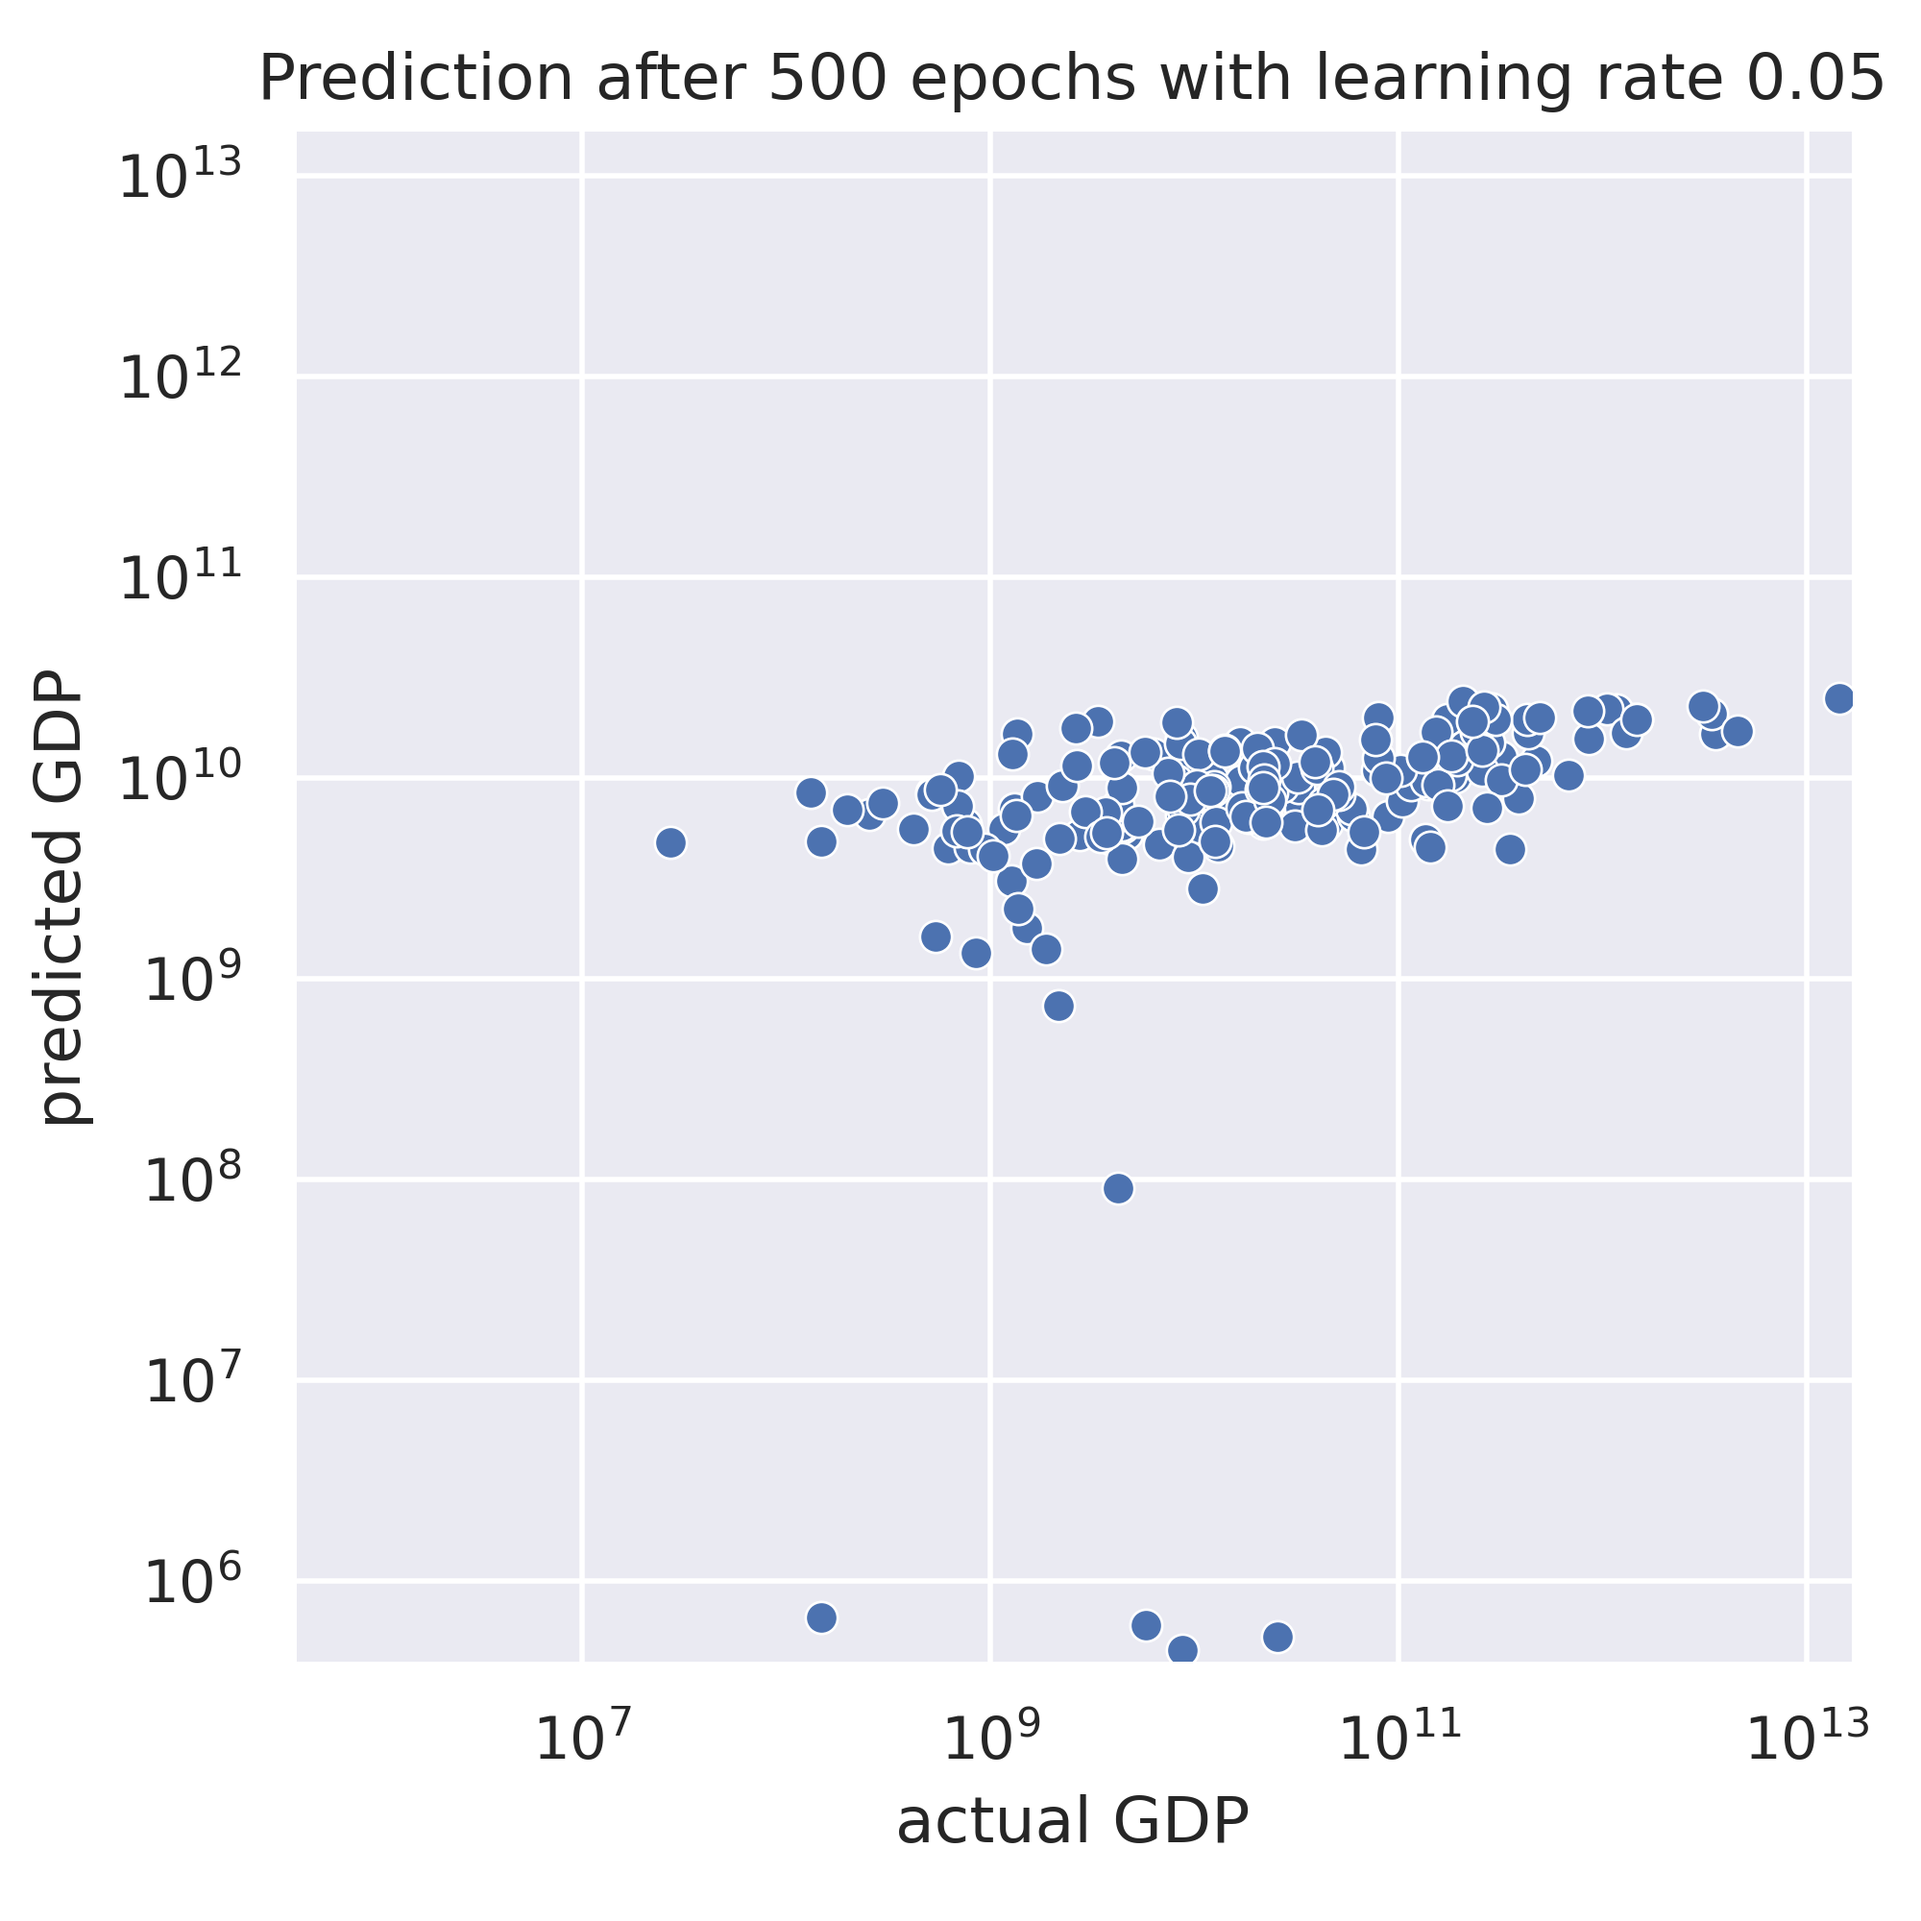
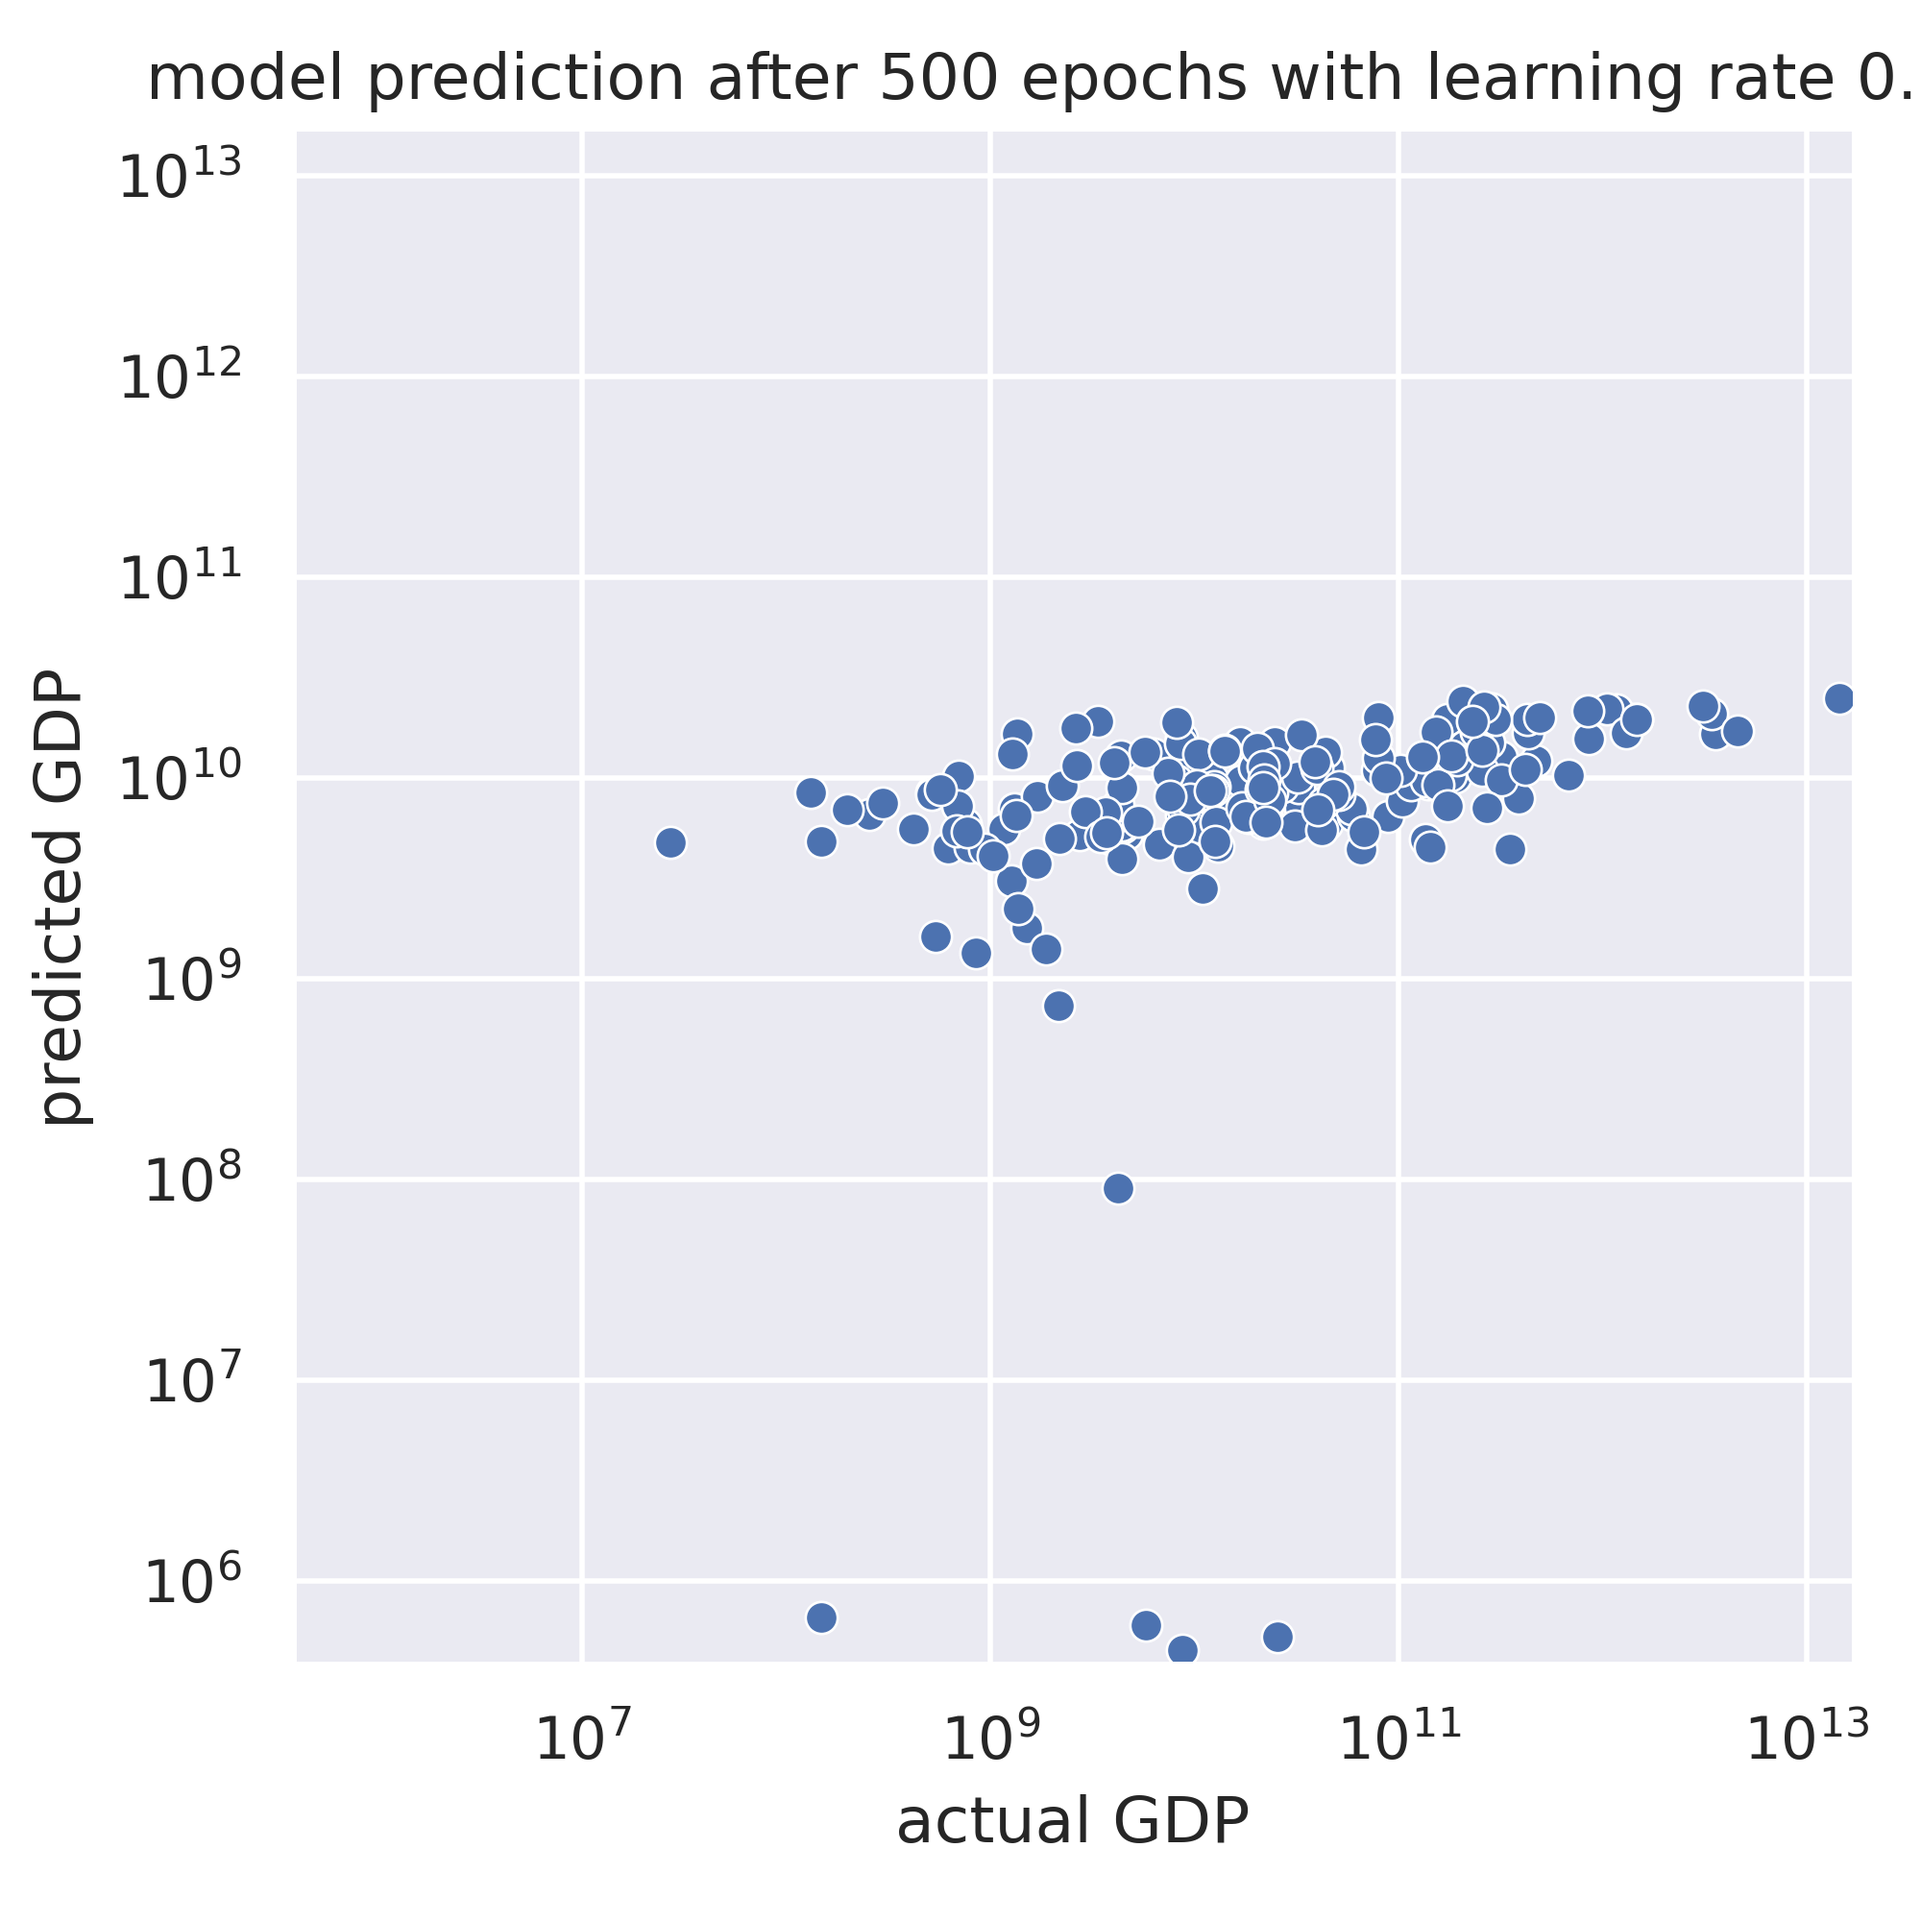
add model type to title

Changed region(s): [[0.062, 0.031, 0.992, 0.062]]

diff --git a/plot.py b/plot.py
@@ -41,5 +41,5 @@ for lr in get_sweep_range():
         #loss_plot(f"{model_type}_{lr}_10000")
         for e in [0, 250]:
             pred_plot(f"results/{model_type}_{lr}_{e}_out_of_500_prediction.csv", f"Prediction after {e} epochs with learning rate {lr}", f"plots/{model_type}_{lr}_{e}.png")
-        pred_plot(f"results/{model_type}_{lr}_prediction.csv", f"Prediction after 500 epochs with learning rate {lr}", f"plots/{model_type}_{lr}.png")
+        pred_plot(f"results/{model_type}_{lr}_prediction.csv", f"{model_type} prediction after 500 epochs with learning rate {lr}", f"plots/{model_type}_{lr}.png")
 
